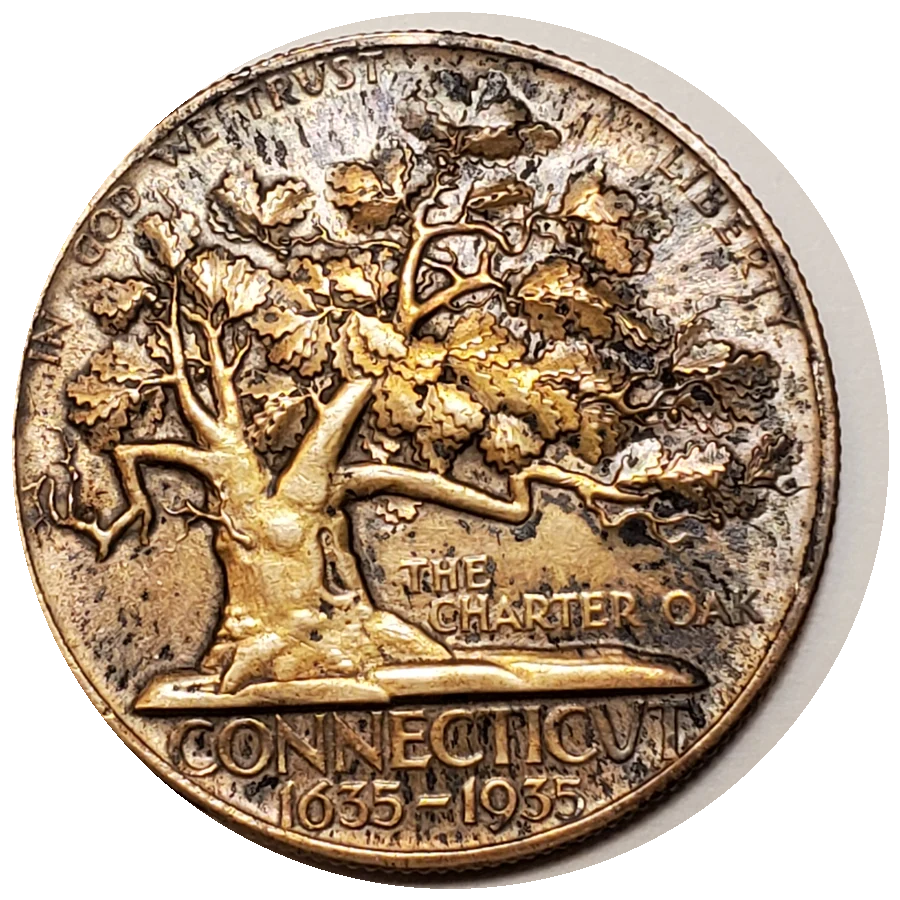
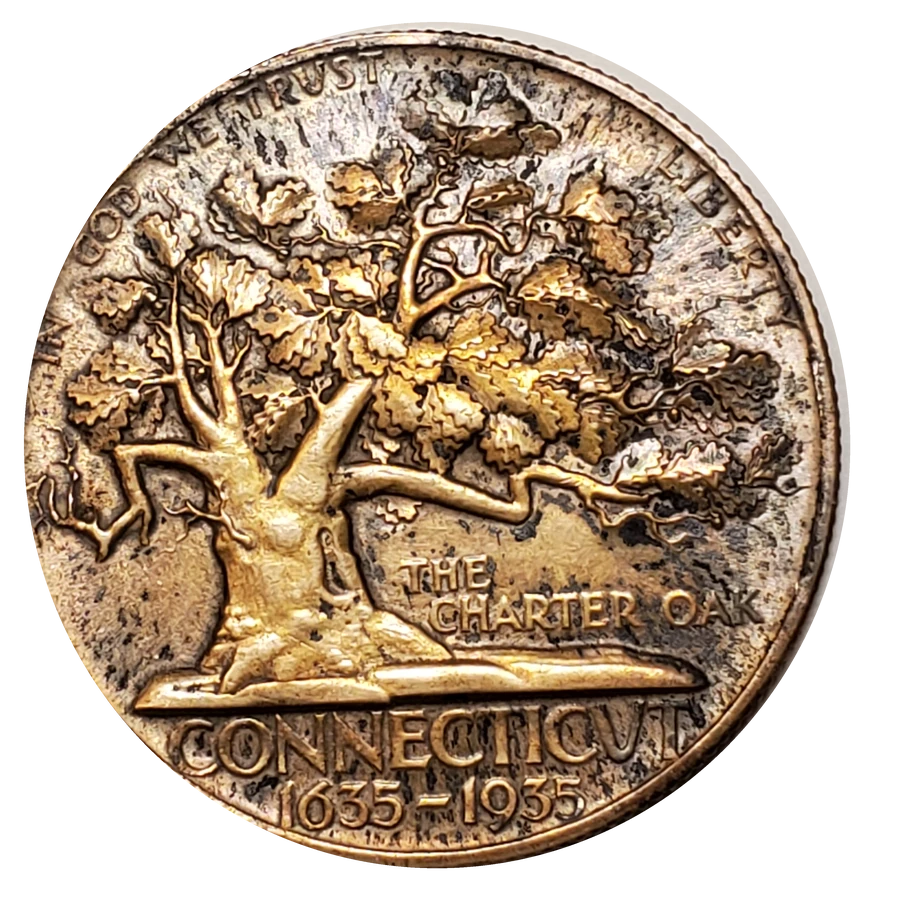
Publish Henry Kreis website
Copilot-Session: 15cf1a61-db58-405c-95c0-adf5fb9ccd44

Changed region(s): [[0.0, 0.0, 0.9956, 0.9956], [0.1556, 0.0933, 0.2489, 0.1556], [0.0933, 0.1556, 0.1556, 0.2489]]

diff --git a/connecticut-tercentenary-half-dollar.html b/connecticut-tercentenary-half-dollar.html
@@ -39,9 +39,9 @@
           </div>
           <div class="object-hero__summary">
             <p>
-              Designed by Henry Kreis to commemorate the 300th anniversary of
-              Connecticut's founding, the half dollar pairs the Charter Oak with
-              a boldly modeled American eagle.
+                Designed by Henry Kreis to commemorate the 300th anniversary of
+                Connecticut's founding, the half dollar pairs a boldly modeled
+                American eagle on the obverse with the Charter Oak on the reverse.
             </p>
             <dl class="object-facts">
               <div><dt>Designer</dt><dd>Henry Kreis</dd></div>
@@ -63,29 +63,29 @@
             <figure class="coin-figure">
               <div class="coin-figure__image">
                 <img
-                  src="images/1935-connecticut-half-dollar-charter-oak.webp"
-                  alt="Charter Oak side of the 1935 Connecticut Tercentenary Half Dollar"
+                  src="images/1935-connecticut-half-dollar-eagle.webp"
+                  alt="Obverse of the 1935 Connecticut Tercentenary Half Dollar, featuring an eagle"
                   width="900"
                   height="900"
                 >
               </div>
               <figcaption>
-                <strong>Charter Oak side</strong>
-                <span>The legendary oak fills the field above “Connecticut 1635–1935.”</span>
+                <strong>Obverse · Eagle</strong>
+                <span>A powerful eagle composition carries the denomination and national inscriptions.</span>
               </figcaption>
             </figure>
             <figure class="coin-figure">
               <div class="coin-figure__image">
                 <img
-                  src="images/1935-connecticut-half-dollar-eagle.webp"
-                  alt="Eagle side of the 1935 Connecticut Tercentenary Half Dollar"
+                  src="images/1935-connecticut-half-dollar-charter-oak.webp"
+                  alt="Reverse of the 1935 Connecticut Tercentenary Half Dollar, featuring the Charter Oak"
                   width="900"
                   height="900"
                 >
               </div>
               <figcaption>
-                <strong>Eagle side</strong>
-                <span>A powerful eagle composition carries the denomination and national inscriptions.</span>
+                <strong>Reverse · Charter Oak</strong>
+                <span>The legendary oak fills the field above “Connecticut 1635–1935.”</span>
               </figcaption>
             </figure>
           </div>
@@ -128,23 +128,23 @@
           <div class="plaster-grid">
             <figure>
               <img
-                src="images/1935-connecticut-half-dollar-plaster-charter-oak.jpg"
-                alt="Large plaster model for the Charter Oak side of the Connecticut Tercentenary Half Dollar"
-                width="1400"
-                height="1314"
-                loading="lazy"
-              >
-              <figcaption>Plaster model, Charter Oak side.</figcaption>
-            </figure>
-            <figure>
-              <img
                 src="images/1935-connecticut-half-dollar-plaster-eagle.jpg"
-                alt="Large plaster model for the eagle side of the Connecticut Tercentenary Half Dollar"
+                alt="Large plaster model for the obverse of the Connecticut Tercentenary Half Dollar, featuring an eagle"
                 width="1400"
                 height="1311"
                 loading="lazy"
               >
-              <figcaption>Plaster model, eagle side.</figcaption>
+              <figcaption>Plaster model, obverse · eagle.</figcaption>
+            </figure>
+            <figure>
+              <img
+                src="images/1935-connecticut-half-dollar-plaster-charter-oak.jpg"
+                alt="Large plaster model for the reverse of the Connecticut Tercentenary Half Dollar, featuring the Charter Oak"
+                width="1400"
+                height="1314"
+                loading="lazy"
+              >
+              <figcaption>Plaster model, reverse · Charter Oak.</figcaption>
             </figure>
           </div>
           <p class="image-credit">Plaster photographs courtesy of the Gallery of Fine Arts, Yale University.</p>

diff --git a/numismatics.html b/numismatics.html
@@ -22,7 +22,7 @@
             <div class="collection-group__image">
               <img
                 src="images/1935-connecticut-half-dollar-charter-oak.webp"
-                alt="Charter Oak side of the 1935 Connecticut Tercentenary Half Dollar"
+                alt="Reverse of the 1935 Connecticut Tercentenary Half Dollar, featuring the Charter Oak"
                 width="900"
                 height="900"
               >

diff --git a/styles.css b/styles.css
@@ -717,9 +717,9 @@ blockquote {
 .plaster-grid img {
   display: block;
   width: 100%;
-  aspect-ratio: 1;
+  height: auto;
   border: 1px solid var(--line);
-  object-fit: cover;
+  object-fit: contain;
 }
 
 .plaster-grid figcaption {
